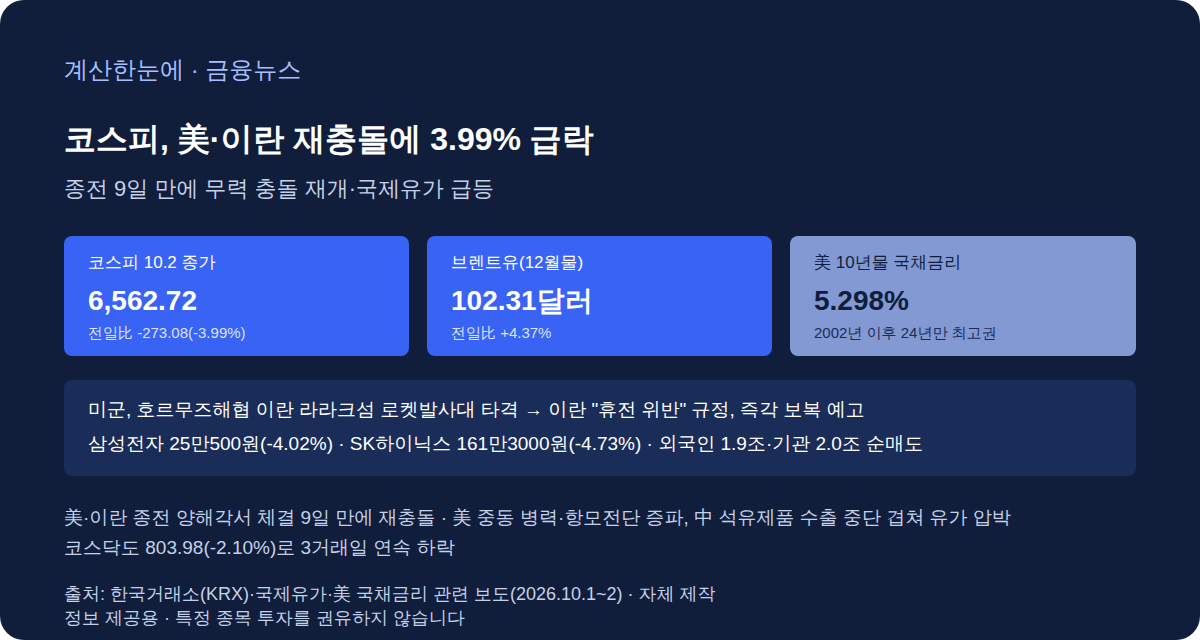
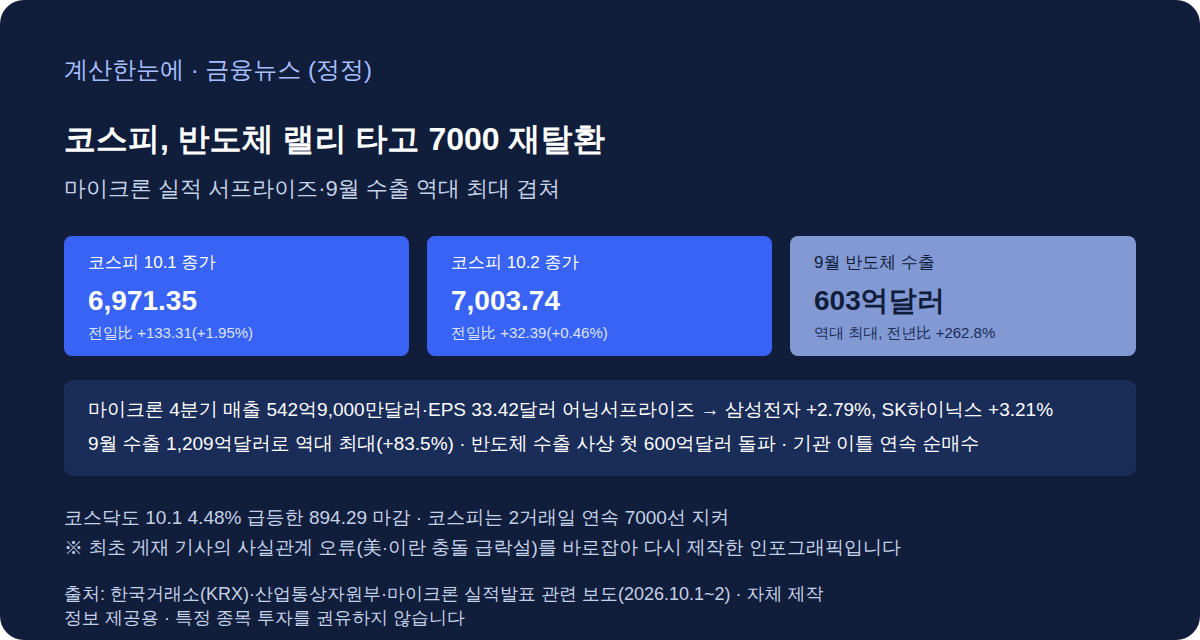
fix(news): 10/2 코스피 기사 전면 정정 — 美·이란 충돌 급락설은 오보, 실제는 반도체 랠리로 7000 탈환
기존에 게재한 "코스피 3.99% 급락(6,562.72), 美·이란 재충돌" 기사는 사실관계가
틀린 것으로 확인됨. 재크로스체크 결과:
- 인용했던 "미군, 이란 라라크섬 타격" 보도는 실제로는 8월 30일 사건이며 10/1과
  무관
- 실제 10/1 코스피는 +1.95%(6,971.35), 10/2는 +0.46%(7,003.74)로 2거래일
  연속 상승해 7000선을 지켰음 (마이크론 실적 서프라이즈 + 9월 반도체 수출
  역대 최대 603억달러 겹친 영향)
- 기존 기사의 유가·국채금리 수치도 날짜가 뒤섞인 것으로 의심되어 전부 제거

기사 본문 최상단에 정정 고지를 명시하고, 인포그래픽(SVG/PNG)도 실제 시황에
맞게 다시 제작. reviewedAt을 2026-10-04로 갱신.

Claude-Session: https://claude.ai/code/session_01QDsdG4QVcuaDEbProvrrsE

diff --git a/lib/news.ts b/lib/news.ts
@@ -642,28 +642,28 @@ export const newsArticles: NewsArticle[] = [
   },
   {
     slug: "kospi-plunge-us-iran-conflict-2026-10-02",
-    title: "코스피, 美·이란 재충돌에 3.99% 급락…6500선 후퇴",
-    category: "금융", date: "2026-10-02", publishedAt: "2026-10-02", reviewedAt: "2026-10-02",
-    summary: "2일 코스피가 전 거래일보다 273.08포인트(3.99%) 급락한 6,562.72에 마감했습니다. 미국과 이란이 종전 양해각서를 맺은 지 9일 만에 다시 무력 충돌하면서 국제유가가 급등하고 美 국채금리가 24년 만의 최고 수준에 근접하자 외국인·기관이 동반 매도에 나선 영향입니다. 삼성전자·SK하이닉스 등 시가총액 상위 종목 전반이 4%대 하락했습니다.",
-    sourceName: "한국거래소(KRX)·국제유가·美 국채금리 관련 보도(2026.10.1~2)",
+    title: "코스피, 반도체 랠리 타고 7000 재탈환…마이크론 서프라이즈·수출 훈풍",
+    category: "금융", date: "2026-10-02", publishedAt: "2026-10-02", reviewedAt: "2026-10-04",
+    summary: "[정정] 이 기사는 처음 게재 당시 코스피가 美·이란 무력 충돌로 급락했다고 전했으나, 사실과 달라 전체 내용을 바로잡았습니다. 실제로는 마이크론의 실적 서프라이즈와 9월 반도체 수출 역대 최대 기록에 힘입어 코스피가 1일 1.95% 오른 6,971.35, 2일 0.46% 오른 7,003.74에 마감하며 2거래일 연속 7000선을 지켜냈습니다. 삼성전자·SK하이닉스 등 반도체 대형주가 동반 강세를 보였습니다.",
+    sourceName: "한국거래소(KRX)·산업통상자원부·마이크론 실적발표 관련 보도(2026.10.1~2)",
     sourceUrl: "https://www.krx.co.kr",
     image: "/news-kospi-plunge-us-iran.svg",
-    imageAlt: "10월 2일 코스피가 전일 대비 273.08포인트(3.99%) 내린 6,562.72에 마감했고 코스닥도 2.10% 내린 803.98로 3거래일 연속 하락했다는 내용의 인포그래픽. 미국과 이란이 종전 양해각서 체결 9일 만에 재충돌해 미군이 호르무즈해협 이란 라라크섬의 로켓발사대를 타격했고 이란은 휴전 위반이라며 즉각 보복을 예고했다. 12월물 브렌트유는 배럴당 102.31달러로 전일 대비 4.37% 올랐고, 美 10년물 국채금리는 5.298%까지 올라 2002년 이후 24년 만의 최고 수준에 근접했다. 외국인이 1조9,094억원, 기관이 2조434억원을 순매도했고 삼성전자(-4.02%, 25만500원)·SK하이닉스(-4.73%, 161만3,000원) 등 시가총액 상위 종목이 동반 하락했다.",
+    imageAlt: "코스피가 10월 1일 전일 대비 133.31포인트(1.95%) 오른 6,971.35, 10월 2일 32.39포인트(0.46%) 오른 7,003.74에 마감해 2거래일 연속 7000선을 지켰다는 내용의 인포그래픽. 미국 마이크론이 2026 회계연도 4분기 매출 542억9,000만달러·주당순이익 33.42달러의 어닝서프라이즈를 발표했고, 같은 날 산업통상자원부도 9월 수출이 전년 대비 83.5% 늘어난 1,209억달러로 역대 최대, 반도체 수출은 262.8% 급증한 603억달러로 사상 첫 600억달러 돌파를 기록했다고 밝혔다. 삼성전자(+2.79%, 27만6,000원)·SK하이닉스(+3.21%, 183만3,000원) 등 반도체 대형주가 동반 강세를 보였고 코스닥지수도 1일 4.48% 급등한 894.29에 마감했다.",
     walletTakeaway: [
-      "국제유가가 급등했지만 국내 주유소 판매가는 정부 가격상한 고시 주기(4주 단위) 때문에 아직 반영되지 않았을 수 있습니다. 중동 정세가 이어지면 다음 고시부터 기름값이 오를 수 있으니 장거리 운전 계획이 있다면 미리 참고하세요.",
-      "변동성이 큰 장세인 만큼 보유 종목·펀드의 비중을 다시 점검하고, 하락폭만 보고 무리하게 추가매수하거나 단기매매에 나서는 것은 신중해야 합니다.",
-      "지정학적 리스크는 추가 보복 여부에 따라 언제든 상황이 바뀔 수 있으니, 투자 결정을 서두르기보다 당분간 관련 뉴스를 지켜보며 판단하는 것이 안전합니다.",
+      "반도체 업황 개선 기대로 관련 종목이 단기간에 크게 오른 만큼, 추격 매수보다는 분할 매수나 장기 관점에서 접근하는 것이 변동성 위험을 줄이는 방법입니다.",
+      "수출 지표나 해외 기업 실적 발표처럼 예정된 이벤트는 증시 변동성을 키우는 요인이므로, 투자 전 주요 발표 일정을 미리 확인해두면 도움이 됩니다.",
+      "이 기사는 10월 2일 처음 게재된 뒤 사실관계 오류가 확인돼 전면 수정되었습니다. 속보성이 강한 금융 뉴스일수록 여러 매체의 후속 보도를 함께 확인한 뒤 투자 판단을 내리시길 권합니다.",
     ],
     body: [
-      "2일 코스피가 전 거래일보다 273.08포인트(3.99%) 급락한 6,562.72에 마감했다. 코스닥지수도 17.27포인트(2.10%) 내린 803.98로 3거래일 연속 하락을 이어갔다. 미국과 이란이 종전 양해각서를 맺은 지 9일 만에 다시 무력 충돌하면서 국제유가가 급등하고 투자심리가 급격히 얼어붙은 영향이다.",
-      "미군은 1일 호르무즈해협 인근 이란 라라크섬에 있는 로켓발사대 두 곳을 공격했다. 미국 정부 관계자는 이란혁명수비대(IRGC)가 기뢰를 실은 로켓을 호르무즈해협으로 발사하려는 움직임이 포착돼 선제적으로 타격했다고 설명했다. 이란은 이를 '휴전 위반'으로 규정하고 군인과 민간인 사상자가 발생했다며 즉각 보복을 예고했다. 양국이 종전을 위한 양해각서에 서명한 지 불과 9일 만에 다시 충돌한 것이다.",
-      "두 나라의 무력 충돌은 올해 2월 28일 미국의 공격으로 시작돼 106일간 이어진 끝에 지난 6월 14일 전자 서명으로 종전 양해각서가 체결되고 6월 19일 스위스에서 공식 서명식이 열리며 일단락됐다. 당시 합의에는 레바논을 포함한 모든 지역에서 적대 행위를 중단하고, 이란이 봉쇄했던 호르무즈해협을 협상 기간 60일간 통행료 없이 개방하며, 미국도 이란 해상 봉쇄를 해제한다는 내용이 담겼다. 이번 충돌로 넉 달 만에 어렵게 마련된 휴전 체제가 다시 흔들리게 됐다.",
-      "충돌 소식에 국제유가가 즉각 반응했다. 1일(현지시간) 12월물 브렌트유 선물은 배럴당 102.31달러로 전일보다 4.28달러(4.37%) 올랐다. 미국이 중동 지역에 항공모함 전단과 병력을 추가로 배치한다는 소식에 더해, 중국이 석유제품 수출을 중단했다는 보도까지 겹치면서 공급 불안이 커진 결과다.",
-      "국채금리도 움직였다. 美 10년물 국채금리는 1일 장중 5.298%까지 올라 2002년 이후 24년 만의 최고 수준에 근접했다가, 오후 들어 상승폭 일부를 반납했다. 고금리 장기화 우려가 위험자산 회피 심리를 자극하면서 국내 증시에도 부담으로 작용했다.",
-      "수급 면에서는 외국인과 기관이 동반 매도에 나섰다. 외국인이 1조9,094억원, 기관이 2조434억원을 각각 순매도했다. 개인이 2조3,023억원을 순매수하며 지수 방어에 나섰지만 역부족이었다. 반도체·자동차·2차전지 등 시가총액 상위 업종 전반에 매도 압력이 집중되면서 낙폭이 커졌다. 삼성전자는 4.02% 내린 25만500원, SK하이닉스는 4.73% 내린 161만3,000원에 거래를 마쳤다.",
-      "증권가에서는 이날 급락의 배경으로 반도체 업황 자체보다 지정학적 불확실성과 고금리를 꼽는 분석이 많다. 중동 정세가 길어질수록 유가와 금리를 통해 전 세계 증시에 부담을 줄 수 있다는 우려다. 다만 이란의 보복 예고가 실제로 어떤 형태로 이어질지, 미국이 추가로 대응할지는 아직 불확실한 상황이다.",
-      "국제유가 급등이 당장 국내 주유소 기름값으로 이어지지는 않는다. 정부는 4주 단위로 석유 최고가격을 고시해 운영하고 있어, 이번 유가 급등은 다음 고시 주기부터 반영될 가능성이 크다. 다만 중동 정세가 길어지면 국내 기름값 인상 압력도 점차 커질 수 있다.",
-      "이 글에서 인용한 지수·수급·유가·금리 수치는 1~2일 사이 발표·보도된 자료를 기준으로 한 것이며, 상황이 급변하고 있어 이후 전개에 따라 세부 수치가 달라질 수 있다. 특정 종목이나 업종에 대한 투자를 권유하는 것이 아니며, 이 글은 정보 전달을 목적으로 하는 콘텐츠임을 다시 한번 밝힌다.",
+      "[정정] 이 기사는 처음 게재될 당시 코스피가 미국과 이란의 무력 충돌 재발로 3.99% 급락했다고 전했으나, 이는 사실과 다른 것으로 확인돼 전체 내용을 바로잡는다. 당초 인용한 '美, 이란 라라크섬 타격' 보도는 실제로는 8월 30일에 있었던 별개의 사건이었고, 10월 1~2일 코스피는 오히려 반도체 업황 개선에 힘입어 2거래일 연속 상승해 7000선을 다시 넘어섰다. 확인되지 않은 정보로 혼선을 드린 점 독자 여러분께 사과드리며, 아래는 실제 시황을 다시 취재해 작성한 내용이다.",
+      "1일 코스피가 전 거래일보다 133.31포인트(1.95%) 오른 6,971.35에 마감했다. 코스닥지수도 38.38포인트(4.48%) 급등한 894.29로 장을 마쳤다. 미국 반도체기업 마이크론의 깜짝 실적과 9월 반도체 수출 역대 최대 기록이 겹치며 삼성전자·SK하이닉스 등 대형 반도체주가 동반 강세를 보인 영향이다. 코스피는 다음 날인 2일에도 0.46% 추가 상승한 7,003.74에 마감하며 2거래일 연속 7000선을 지켜냈다.",
+      "상승의 첫 불씨는 마이크론의 실적 발표였다. 마이크론은 2026 회계연도 4분기(6~8월) 매출 542억9,000만달러, 주당순이익 33.42달러를 기록했다고 밝혔다. 월가 전문가 예상치였던 주당순이익 31.72달러를 웃도는 '어닝서프라이즈'로, 메모리 반도체 가격 상승과 수요 회복이 실적에 그대로 반영됐다는 평가가 나왔다.",
+      "같은 날 산업통상자원부도 9월 수출이 1,209억달러로 역대 최대치를 기록했다고 발표했다. 전년 동월보다 83.5% 늘어난 수치다. 특히 반도체 수출은 전년 대비 262.8% 급증한 603억달러로, 단일 품목 수출액이 600억달러를 넘어선 것은 이번이 처음이다. 두 소식이 겹치면서 국내 증시에서 반도체 업황 개선 기대감이 단숨에 커졌다.",
+      "개별 종목으로는 삼성전자가 2.79% 오른 27만6,000원, SK하이닉스가 3.21% 오른 183만3,000원에 거래를 마쳤다. 수급 면에서는 개인과 외국인이 각각 1조4,306억원, 5,485억원을 순매도했지만 기관이 3,345억원을 순매수하며 지수 상승을 뒷받침했다.",
+      "2일에는 장 초반 지수가 6,938.27로 출발해 장중 6,927.88까지 밀리며 숨 고르기에 들어갔지만, 기관이 이틀 연속 순매수에 나서며 낙폭을 만회했고 결국 7,003.74로 마감해 7000선을 다시 지켜냈다. 다만 코스닥지수는 같은 날 하락 마감해 코스피와는 다른 흐름을 보였다.",
+      "이날은 국제유가가 오르면서 정유주도 강세를 보였다. SK이노베이션이 10.32%, 에쓰오일이 11.69%, GS가 4.11% 올랐다. 2차전지 관련주인 에코프로(4.47%)·대주전자재료(11.88%) 등도 동반 상승하며 업종을 가리지 않는 매수세가 확인됐다. 반도체주는 전날 급등에 따른 차익실현 속에서도 SK하이닉스가 자사주 매입 기대 등에 힘입어 소폭(0.44%) 추가 상승했다.",
+      "증권가에서는 메모리 반도체 업황이 AI 서버용 고대역폭메모리(HBM) 수요를 중심으로 뚜렷한 회복 국면에 들어섰다는 분석이 나온다. 다만 단기간 급등에 따른 변동성 확대 가능성, 미국 연방준비제도의 통화정책 변화, 반도체 업황 특유의 사이클 리스크 등은 여전히 변수로 꼽힌다.",
+      "이 글에서 인용한 지수·수급·실적 수치는 1~2일 발표·보도된 자료를 기준으로 하며, 특정 종목이나 업종에 대한 투자를 권유하지 않는다. 이 글은 정보 전달을 목적으로 하는 콘텐츠다.",
     ]
   },
 ];
